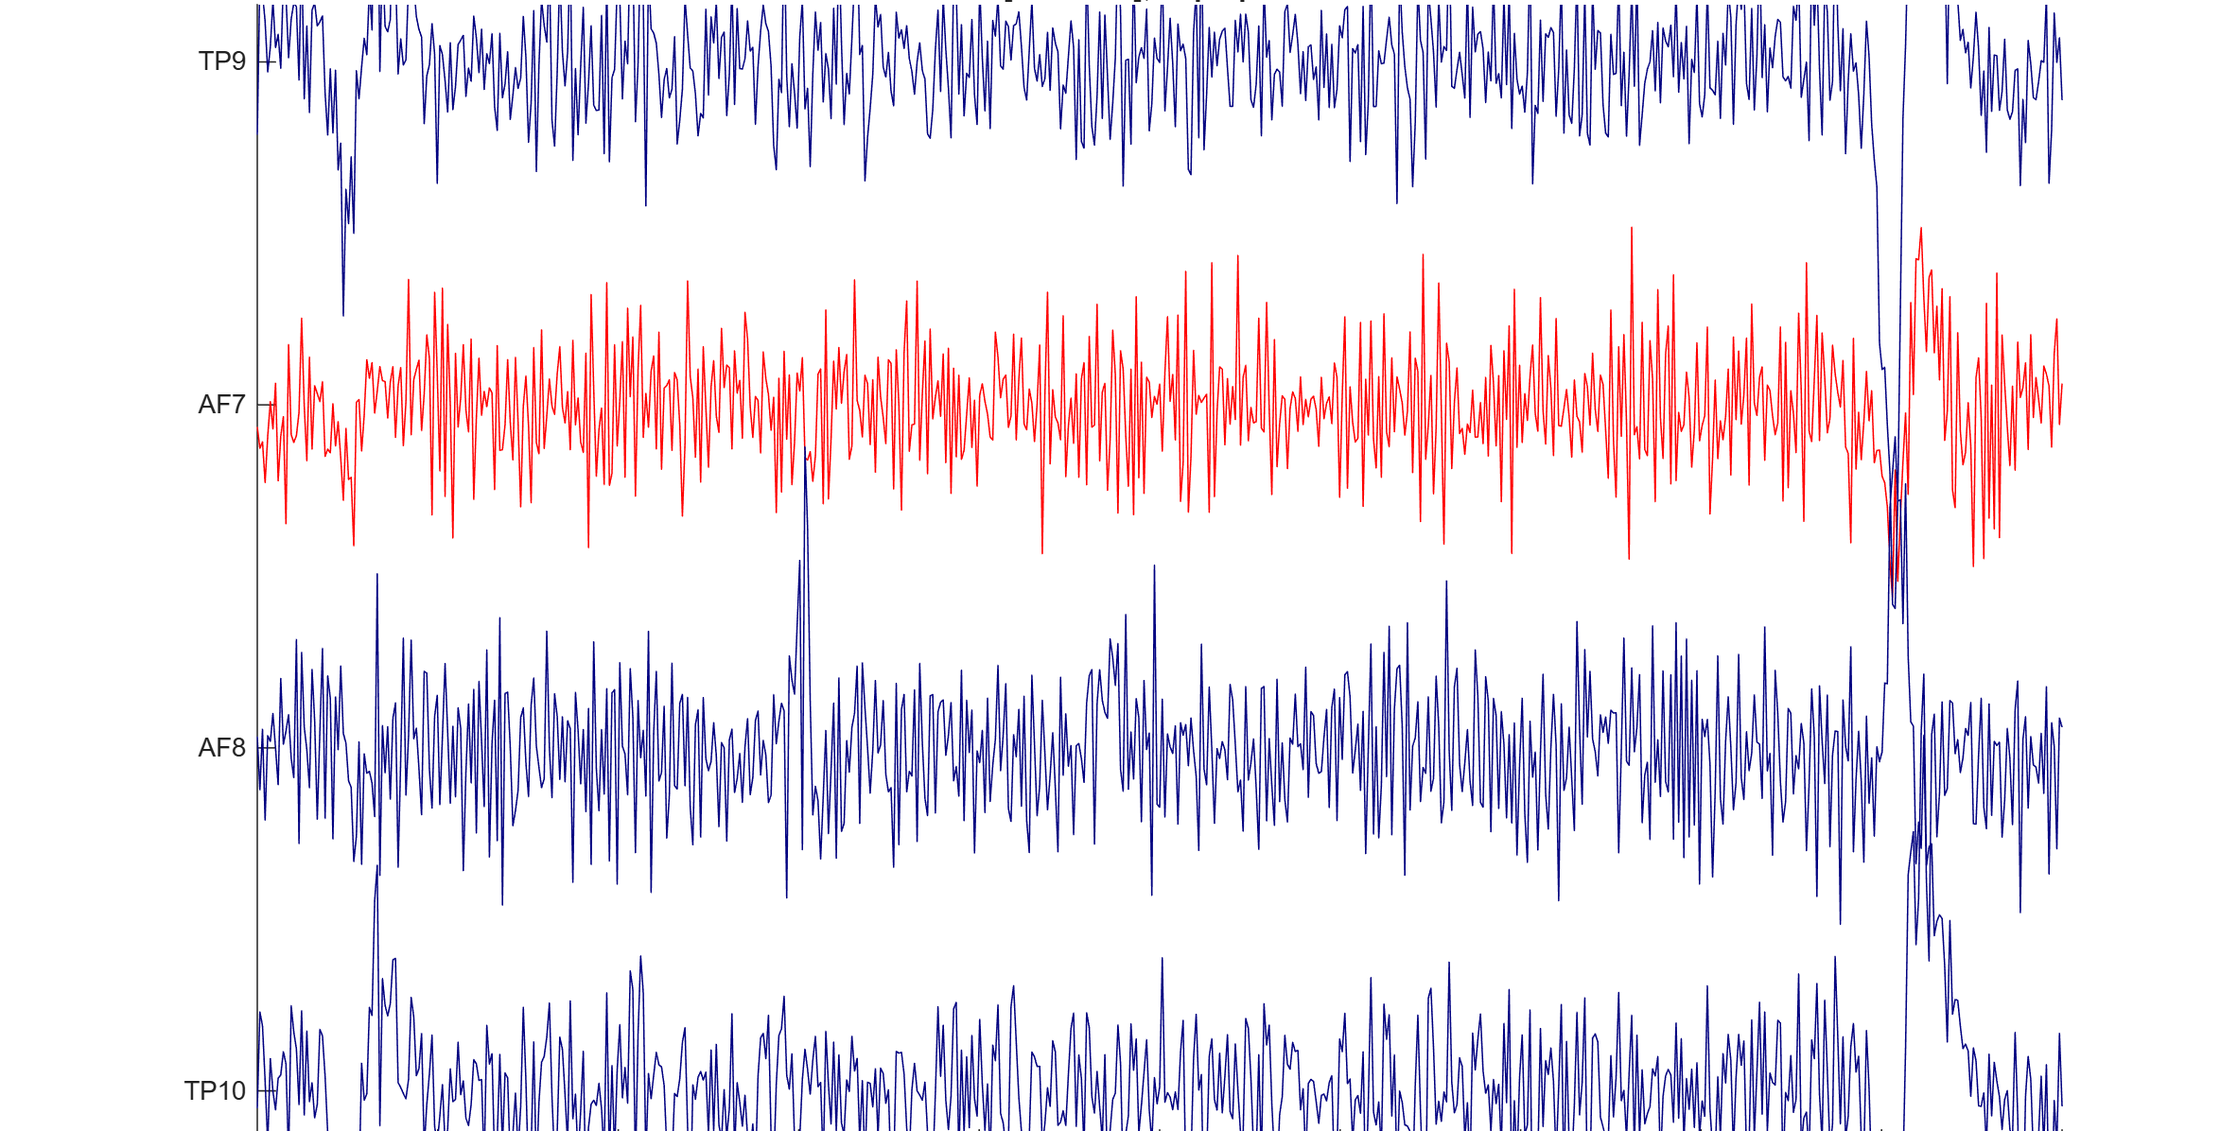
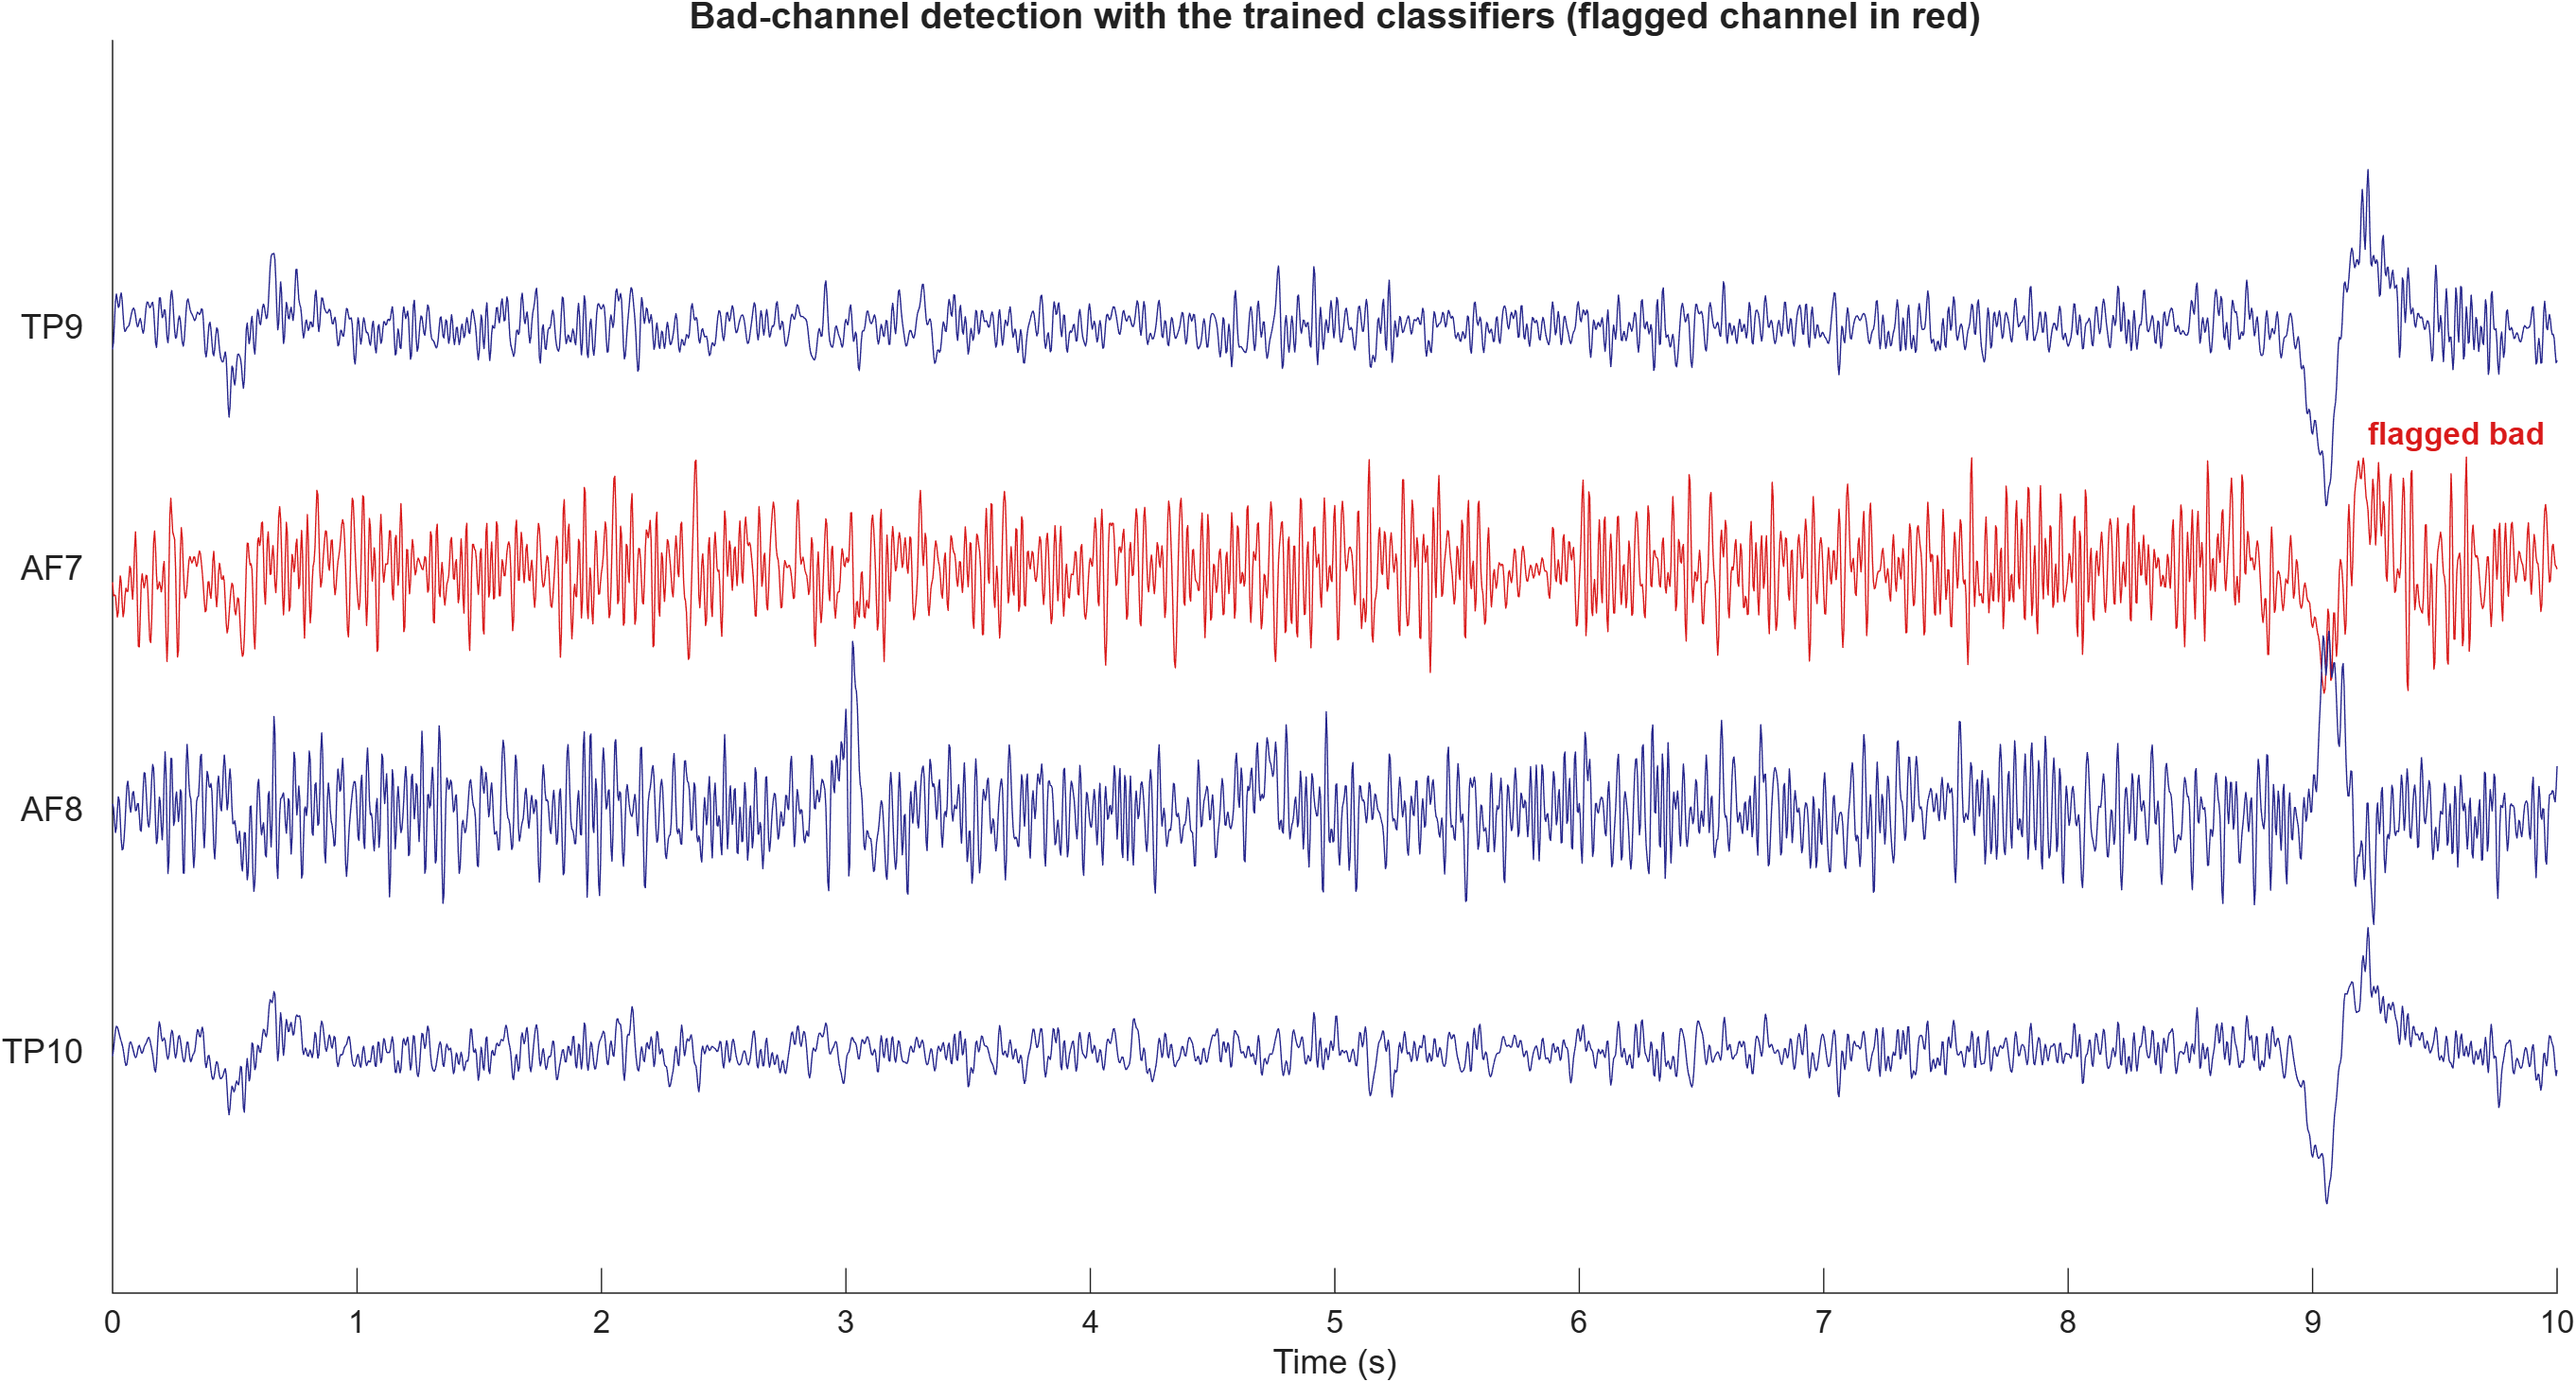
Cleaner bad-channel example figure; 1-45 Hz analysis-filter advice
- docs/badchan_example.png re-rendered at 200 dpi from an eyes-open recording of the
  muse_biosemi study (fa5b9609ba: AF7 flagged by the classifiers, TP9/AF8/TP10 clean)
- scan_channels: filter comment clarified (1-50 Hz = the training band; unchanged code)
- README: tutorial step 3 now suggests 1-45 Hz analysis filtering (keeps European 50 Hz
  line noise out); classifier band-pass sentence corrected to 1-50 Hz (training band)

diff --git a/scan_channels.m b/scan_channels.m
@@ -63,7 +63,7 @@ if isempty(vis)
 end
 
 % Filter EEG signal (same as for training of classifiers)
-EEG = pop_eegfiltnew(EEG,'locutoff',1,'hicutoff',50);    
+EEG = pop_eegfiltnew(EEG,'locutoff',1,'hicutoff',50);   % same 1-50 Hz band as used for training    
 
 % Design filter for SNR feature
 b = design_fir(100,[2*[0 45 50]/EEG.srate 1],[1 1 0 0]);

diff --git a/README.md b/README.md
@@ -46,7 +46,7 @@ Files containing only band power / session scores (no raw EEG) are rejected with
 
 1. Start EEGLAB, then import a file from the menu: **File → Import data → MUSE .csv file (from Mind Monitor or Muse Direct)**; pick the optional signals in the dialog (or skip the dialog and use the command line below).
 2. Browse the imported data: **Plot → Channel data (scroll)**. The 4 EEG channels (`TP9, AF7, AF8, TP10`) plus any optional channels you selected (ACC, GYR, PPG, AUX, fNIRS optics) appear in the EEGLAB structure.
-3. Preprocess as with any EEG dataset, e.g. filter 1–50 Hz (**Tools → Filter data → Basic FIR filter**), reject bad data automatically (**Tools → Reject data using Clean Rawdata and ASR**), or run ICA (**Tools → Run ICA**).
+3. Preprocess as with any EEG dataset, e.g. filter 1–45 Hz (**Tools → Filter data → Basic FIR filter**; a 45 Hz low-pass keeps European 50 Hz line noise out of your analysis band), reject bad data automatically (**Tools → Reject data using Clean Rawdata and ASR**), or run ICA (**Tools → Run ICA**).
 4. Flag bad channels with the trained classifiers: import with `EEG = import_muse(filepath, 'detectBadChan');`, or on an already imported EEG run `[badChan, badChanLabels] = scan_channels(EEG, 0.5, 1);` (see next section).
 5. Analyze heart signals: if you imported the PPG channel (Muse 2/S recorded with Muse Direct) or recorded ECG separately, use the [BrainBeats](https://github.com/amisepa/BrainBeats) EEGLAB plugin to process heartbeat-evoked potentials (HEP), extract EEG and HRV features (SDNN, RMSSD, LF/HF power...), remove heart artifacts from the EEG, and compute brain-heart coherence: [BrainBeats tutorial](https://eeglab.org/plugins/BrainBeats).
 
@@ -69,7 +69,7 @@ EEG = import_muse(filepath, 'detectBadChan');
 [badChan, badChanLabels] = scan_channels(EEG, 0.5, 1);
 ```
 
-The input EEG must be raw (no prior preprocessing); it is band-pass filtered 1-50 Hz on the fly for classification (the output EEG remains raw). `maxTol` (second argument, default 0.5) is the portion of bad 5-s windows tolerated before a channel is flagged; with the default, up to half of the 5-s windows may be bad before the channel is flagged - set it lower (e.g. 0.33) to be stricter.
+The input EEG must be raw (no prior preprocessing); it is band-pass filtered 1-45 Hz on the fly (the training filter, with a 45 Hz low-pass that excludes European 50 Hz line noise) for classification (the output EEG remains raw). `maxTol` (second argument, default 0.5) is the portion of bad 5-s windows tolerated before a channel is flagged; with the default, up to half of the 5-s windows may be bad before the channel is flagged - set it lower (e.g. 0.33) to be stricter.
 
 For each 5-s window, features are computed in the time, frequency, and nonlinear domains (RMS, SNR, low-frequency power, kurtosis, high-frequency power...), selected as most important by a Random Forest during model training.
 
@@ -77,7 +77,7 @@ For each 5-s window, features are computed in the time, frequency, and nonlinear
 
 I manually labeled 3,000 30-second EEG segments recorded with MUSE headsets as good or bad, and extracted features in the time, frequency, and nonlinear domains. I then trained an ensemble of machine learning models (decision trees, logistic regression, LDA, SVM, Naive Bayes, neural networks) with feature selection, PCA dimension reduction, hyperparameter tuning, and 5-fold cross-validation (on 80% of the data). The best model was validated on remaining data from 20% (different subjects, to avoid overfitting). The best models reached 93.5% accuracy for the frontal channels (logistic regression) and 91.4% for the posterior channels (decision tree). The classifiers are conservative: on clean recordings they can still flag a channel, so verify the results with `scan_channels(EEG, maxTol, 1)` (visualization on) when in doubt.
 
-Flagged channels are reported, not removed automatically: check them visually (e.g. Plot > Channel data scroll; the classifiers run on the data band-pass filtered 1-50 Hz on the fly, the same filter as used for training), remove the channels you confirm are bad (e.g. `EEG = pop_select(EEG, 'nochannel', {'AF7'});`), and re-run or re-reference as needed.
+Flagged channels are reported, not removed automatically: check them visually (e.g. Plot > Channel data scroll; the classifiers run on the data band-pass filtered 1-45 Hz on the fly (the training filter, with a 45 Hz low-pass that excludes European 50 Hz line noise), the same filter as used for training), remove the channels you confirm are bad (e.g. `EEG = pop_select(EEG, 'nochannel', {'AF7'});`), and re-run or re-reference as needed.
 
 Example output on a real eyes-open recording (fa5b9609ba, muse_biosemi study): the AF7 channel is flagged bad (drawn in red by the built-in visualization) while TP9, AF8, and TP10 are kept:
 
